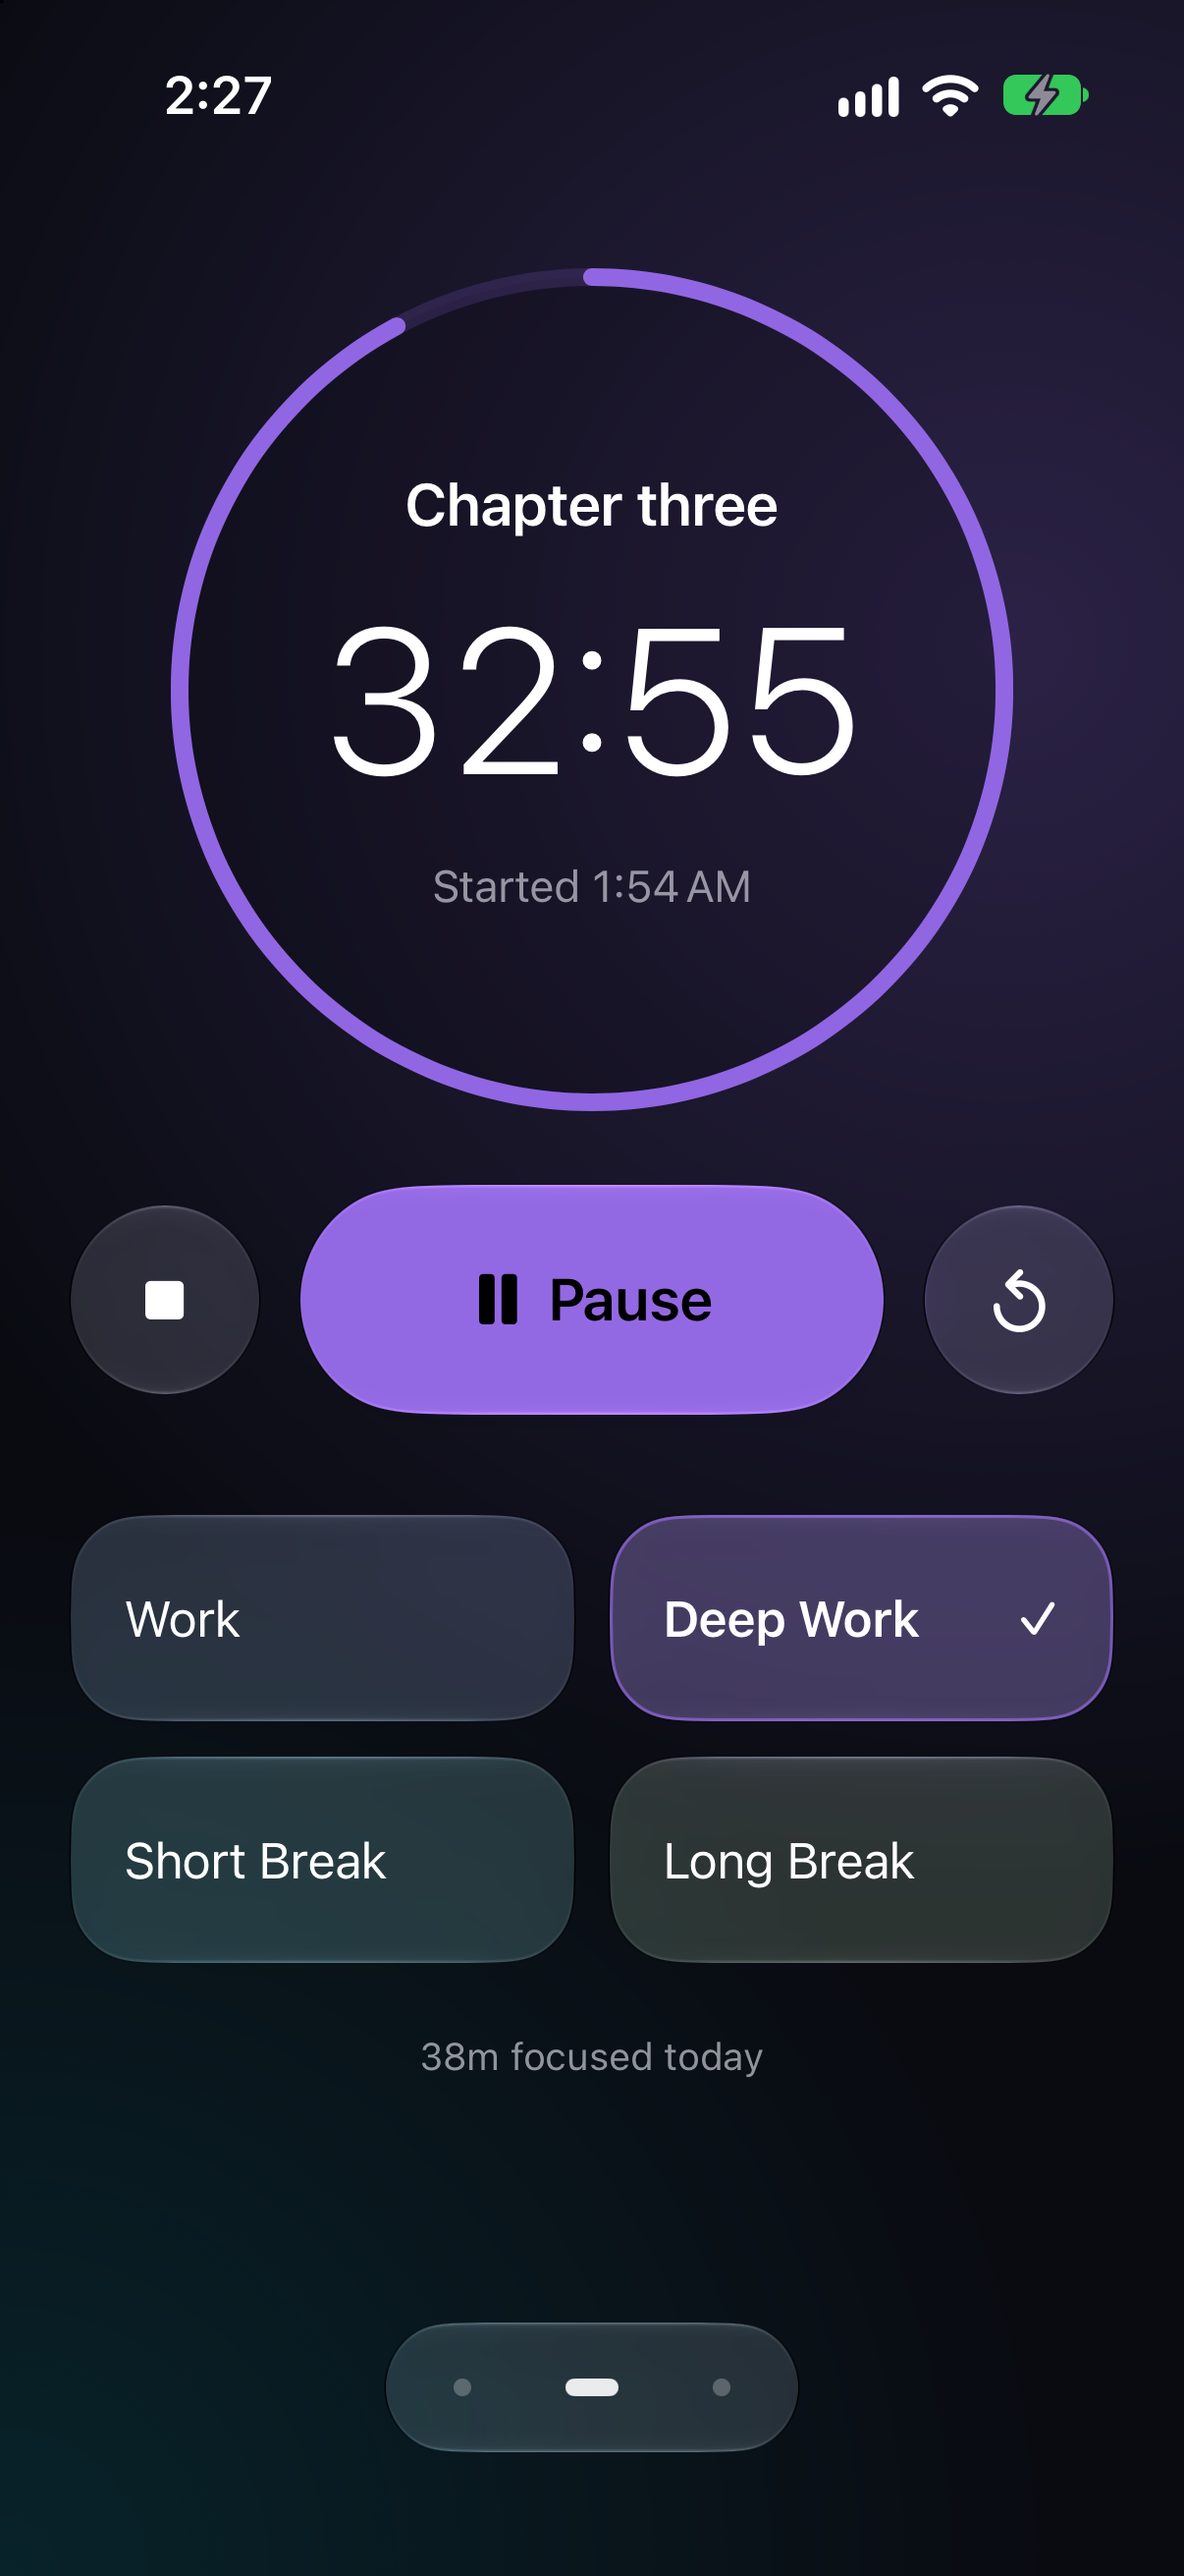
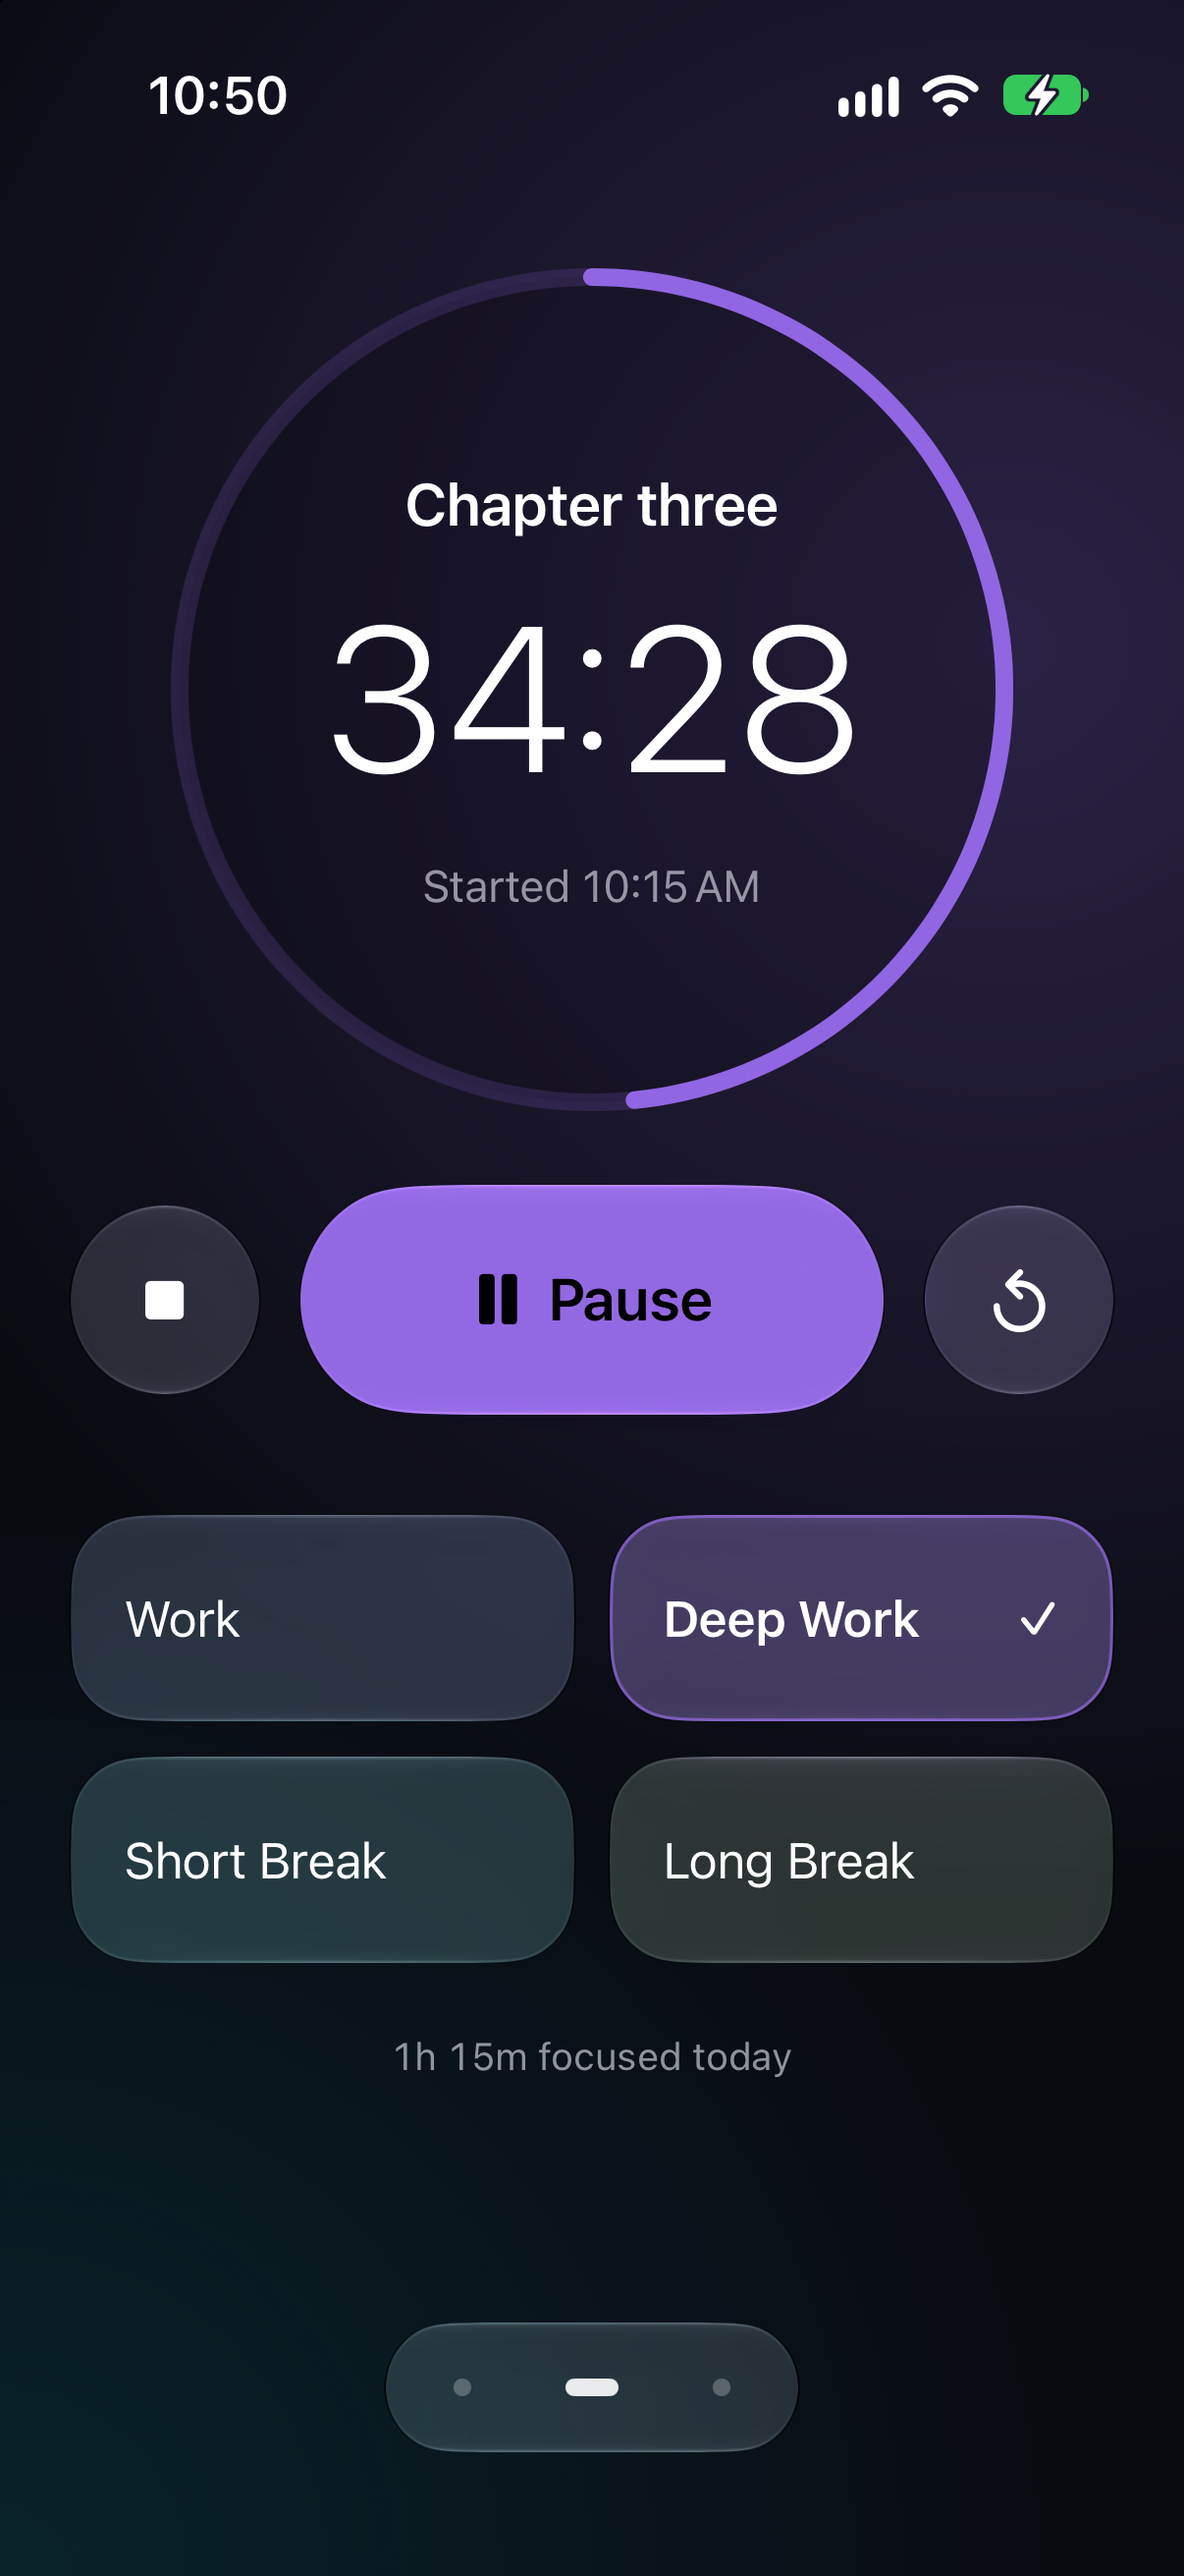
Recapture the gallery so every clock reads as daytime working hours

diff --git a/docs/gallery/overview.html b/docs/gallery/overview.html
@@ -12,7 +12,7 @@
 <body>
 <main class="canvas">
   <header><div class="brand"><img class="brand-mark" src="../../App/Assets.xcassets/AppIcon.appiconset/AppIcon-Dark.png" alt="">SimpleTimer</div><p>iPhone · Apple Watch · Mac</p></header>
-  <section class="col first"><h1>Time it, or let it run.</h1><div class="phone"><img src="../release-images/stopwatch.png" alt="Stopwatch mode on iPhone: a Deep Work session named Chapter three, 32 minutes in"></div></section>
+  <section class="col first"><h1>Time it, or let it run.</h1><div class="phone"><img src="../release-images/stopwatch.png" alt="Stopwatch mode on iPhone: a Deep Work session named Chapter three, 34 minutes in"></div></section>
   <section class="col second"><h2>A clearer picture.</h2><div class="phone"><img src="../release-images/activity.png" alt="Sample Activity week with 20 hours 15 minutes, 56 sessions, 91 percent completed and a 17 day streak"></div></section>
   <section class="side">
     <h2>In your menu bar.</h2>
@@ -21,7 +21,7 @@
         <span class="item active"><svg viewBox="0 0 16 16"><path d="M8 2.2a5.8 5.8 0 1 1-4.1 1.7M8 2.2v2.4M8 8 5.2 5.4"/></svg><b>18:42</b></span>
         <span class="item"><svg viewBox="0 0 16 16"><path d="M2 6.2a8.6 8.6 0 0 1 12 0M4.2 8.6a5.4 5.4 0 0 1 7.6 0M6.4 11a2.3 2.3 0 0 1 3.2 0"/></svg></span>
         <span class="item"><svg viewBox="0 0 22 12"><rect x="1" y="1.5" width="17" height="9" rx="2.5"/><rect class="fill" x="2.8" y="3.3" width="13.4" height="5.4" rx="1.2"/><path d="M20 4.6v2.8"/></svg></span>
-        <span class="item clock">Tue Nov 3&nbsp;&nbsp;9:26</span>
+        <span class="item clock">Tue Nov 3&nbsp;&nbsp;9:26 AM</span>
       </div>
       <div class="mac-panel"><img src="../release-images/mac-panel.png" alt="SimpleTimer for Mac: a drop-down under the menu bar with a running Work timer, its controls and session types"></div>
     </div>

diff --git a/docs/GALLERY.md b/docs/GALLERY.md
@@ -12,4 +12,4 @@ These are real app screens in dark mode: iPhone and Apple Watch from paired simu
 
 The [layout](gallery/overview.html) and [styles](gallery/gallery.css) place the original screenshots without redrawing the interface. All text uses Libre Caslon Text, loaded from Google Fonts: bold for headlines, regular spaced capitals for the small masthead and tagline. The masthead uses the app icon, so capture with network access. Serve this repository locally, open the layout at a 1600 × 1100 viewport and capture it to `release-images/overview.jpg`.
 
-Capture current controls, use a populated complete week for Activity, and check every image at full size. Strip image metadata before publishing. Keep private captures, timer backups, signing files and device identifiers out of this folder.
+Capture current controls, use a populated complete week for Activity, and check every image at full size. Clocks should read as working hours and differ between screens. To capture at night, boot the simulators with `SIMCTL_CHILD_TZ` set to a zone where it is daytime, so status bars, watch faces and "Started" or "Ends" labels agree. Strip image metadata before publishing. Keep private captures, timer backups, signing files and device identifiers out of this folder.
